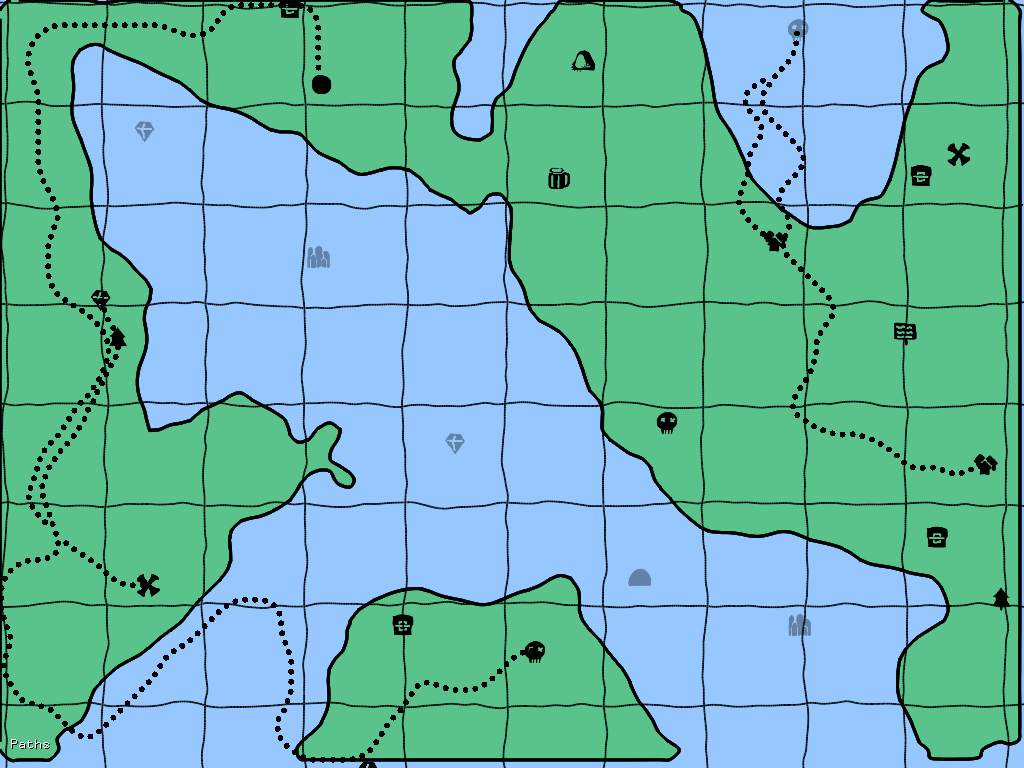
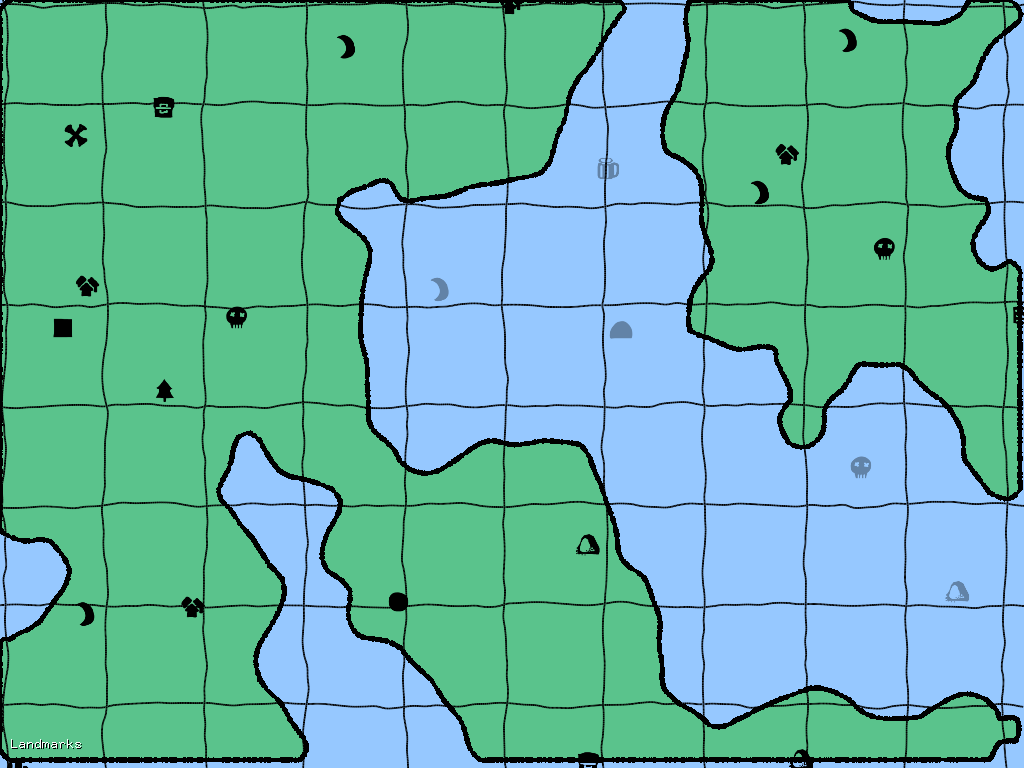
Some swanky alternative line drawing for islands! Next up, the grid.

diff --git a/LittleMap/src/CurveTerrain.cpp b/LittleMap/src/CurveTerrain.cpp
@@ -244,20 +244,9 @@ bool CurveTerrain::DrawIsland(int x, int y)
 	if (d == none)
 		return false;
 
-	ofPath path = ofPath();
-	path.setMode(ofPath::Mode::POLYLINES);
-	path.setStrokeWidth(3);
-	path.setStrokeColor(lineColor);
-	// This needs to pick watercolor of we're drawing a lake!
-	// I think I can solve this by:
-	// - we always start on a corner when starting an island
-	// - the fill colour should match the minority color of the corner
-	// - e.g.  L L   is the corner of a W region. I just don't have the
-	//         L W   land and water data easily at this phase.
-	int hits[4];
-	Hits(hits, x, y);
-	int numHits = hits[0] + hits[1] + hits[2] + hits[3];
-	path.setFillColor(numHits == 3 ? landColor[3] : landColor[4]);
+	ofPolyline path = ofPolyline();
+	//path.setStrokeWidth(3);
+	//path.setStrokeColor(lineColor);
 
 	ofPoint linkPos = LinkPos(x, y, d, next->bias);
 	// ofPath doesn't draw the first or last points, they are just control points for the curve, 
@@ -283,7 +272,34 @@ bool CurveTerrain::DrawIsland(int x, int y)
 	linkPos = LinkPos(x, y, next->tile.links[d], next->bias);
 	path.curveTo(linkPos);
 
-	path.draw(0, 0);
+	ofSetColor(next->tile.drawLand ? landColor[4] : landColor[3]);
+	ofFill();
+	ofEnableSmoothing();
+
+	if (!debug)
+	{
+		ofTessellator tesselator = ofTessellator();
+		ofMesh mesh;
+		tesselator.tessellateToMesh(path, ofPolyWindingMode::OF_POLY_WINDING_ODD, mesh);
+		mesh.draw();
+	}
+
+	if (!debug)
+	{
+		ofSetColor(ofColor::black);
+	}
+	ofFill();
+	ofEnableSmoothing();
+	float len = 0;
+	while (path.getIndexAtLength(len) < path.size()-1) // apparently size - 1....
+	{
+		ofPoint pt = path.getPointAtLength(len);
+		
+		//ofDrawCircle(pt, 3);
+		ofDrawCircle(pt, ofRandom(1.5f, 3.0f));
+
+		len += 1;
+	}
 
 	return true;
 }
@@ -297,6 +313,7 @@ void CurveTerrain::RenderBegin()
 	}
 	else
 	{
+		//ofClear(ofColor::white);
 		ofClear(landColor[3]);
 	}
 
@@ -349,7 +366,7 @@ void CurveTerrain::RenderStep()
 	if (debug)
 	{
 		ofFill();
-		//ofDrawRectangle(render_x * cellSize, render_y * cellSize, cellSize, cellSize);
+		ofDrawRectangle(render_x * cellSize, render_y * cellSize, cellSize, cellSize);
 	}
 }
 
@@ -418,17 +435,20 @@ void CurveTerrain::SetupTiles()
 	// 0 0
 	tiles[1] = { {CurveTerrain::dir::none,
 		CurveTerrain::dir::top, CurveTerrain::dir::none,
-				CurveTerrain::dir::none} };
+				CurveTerrain::dir::none},
+			false };
 	// 0 1
 	// 0 0
 	tiles[2] = { {CurveTerrain::dir::right,
 		CurveTerrain::dir::none, CurveTerrain::dir::none,
-				CurveTerrain::dir::none} };
+				CurveTerrain::dir::none},
+			true };
 	// 1 1
 	// 0 0
 	tiles[3] = { {CurveTerrain::dir::none,
 		CurveTerrain::dir::right, CurveTerrain::dir::none,
-				CurveTerrain::dir::none} };
+				CurveTerrain::dir::none},
+			false };
 	// 0 0
 	// 1 0
 	tiles[4] = { {CurveTerrain::dir::none,
@@ -438,32 +458,38 @@ void CurveTerrain::SetupTiles()
 	// 1 0
 	tiles[5] = { {CurveTerrain::dir::none,
 		CurveTerrain::dir::none, CurveTerrain::dir::none,
-				CurveTerrain::dir::top} };
+				CurveTerrain::dir::top},
+			false };
 	// 0 1
 	// 1 0
 	tiles[6] = { {CurveTerrain::dir::right,
 		CurveTerrain::dir::none, CurveTerrain::dir::none,
-				CurveTerrain::dir::left} };
+				CurveTerrain::dir::left},
+			true };
 	// 1 1
 	// 1 0
 	tiles[7] = { {CurveTerrain::dir::none,
 		CurveTerrain::dir::none, CurveTerrain::dir::none,
-				CurveTerrain::dir::right} };
+				CurveTerrain::dir::right},
+			false };
 	// 0 0
 	// 0 1
 	tiles[8] = { {CurveTerrain::dir::none,
 		CurveTerrain::dir::none, CurveTerrain::dir::bottom,
-				CurveTerrain::dir::none} };
+				CurveTerrain::dir::none},
+			true };
 	// 1 0
 	// 0 1
 	tiles[9] = { {CurveTerrain::dir::none,
 		CurveTerrain::dir::top, CurveTerrain::dir::bottom,
-				CurveTerrain::dir::none} };
+				CurveTerrain::dir::none},
+			true };
 	// 0 1
 	// 0 1
 	tiles[10] = { {CurveTerrain::dir::bottom,
 		CurveTerrain::dir::none, CurveTerrain::dir::none,
-				CurveTerrain::dir::none} };
+				CurveTerrain::dir::none},
+			true };
 	// 1 1
 	// 0 1
 	tiles[11] = { {CurveTerrain::dir::none,
@@ -478,12 +504,14 @@ void CurveTerrain::SetupTiles()
 	// 1 1
 	tiles[13] = { {CurveTerrain::dir::none,
 		CurveTerrain::dir::none, CurveTerrain::dir::top,
-				CurveTerrain::dir::none} };
+				CurveTerrain::dir::none},
+			false };
 	// 0 1
 	// 1 1
 	tiles[14] = { {CurveTerrain::dir::left,
 		CurveTerrain::dir::none, CurveTerrain::dir::none,
-				CurveTerrain::dir::none} };
+				CurveTerrain::dir::none},
+			true };
 	// 1 1
 	// 1 1
 	tiles[15] = { {CurveTerrain::dir::none,

diff --git a/LittleMap/src/Paths.cpp b/LittleMap/src/Paths.cpp
@@ -97,7 +97,7 @@ void Paths::TracePath(Path& path)
 		{
 			ofDrawCircle(pt, 3);
 		}
-		len += 10;
+		len += dotSpacing;
 	}
 
 	drawnPaths.push_back(stroke);

diff --git a/LittleMap/src/CurveTerrain.h b/LittleMap/src/CurveTerrain.h
@@ -24,6 +24,7 @@ public:
 
 	struct Tile {
 		dir links[4];
+		bool drawLand;
 	};
 	struct Cell {
 		Tile tile;
